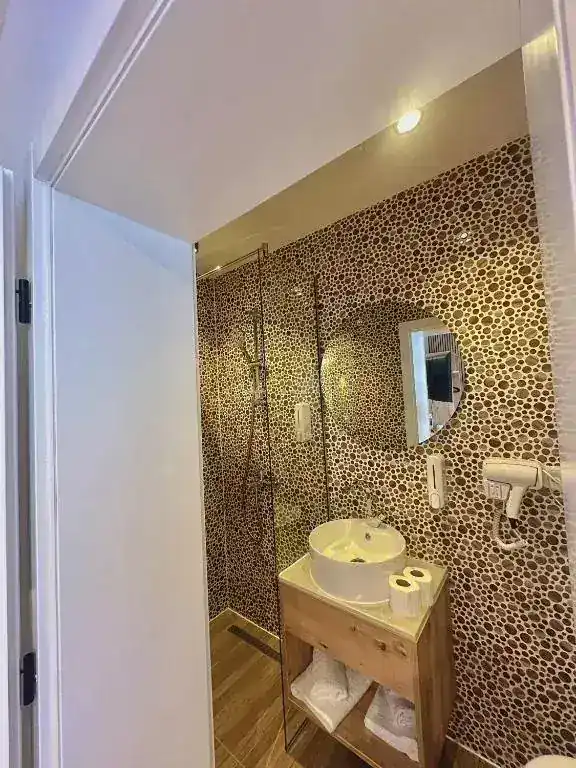
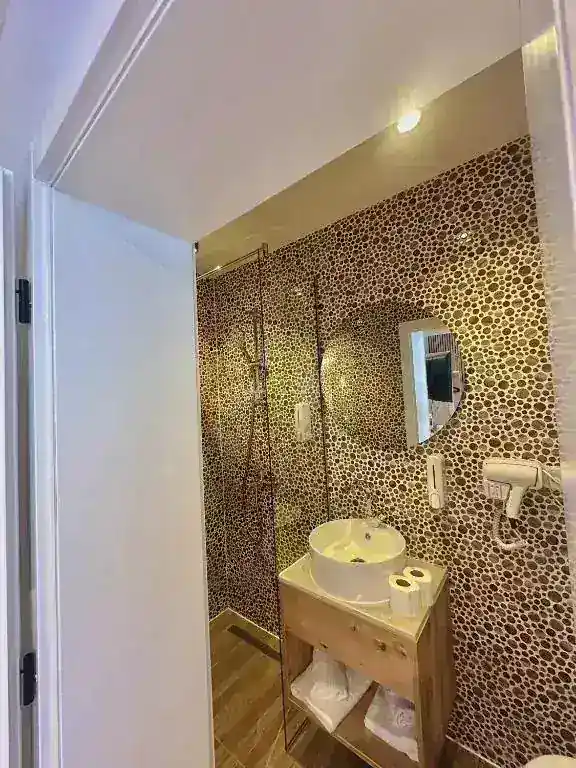
Commit:Site Lighthouse Image Compression.

diff --git a/_recompress-lh-images.js b/_recompress-lh-images.js
@@ -4,24 +4,28 @@
 'use strict';
 const sharp = require('sharp');
 const fs = require('fs');
+const path = require('path');
 
 const targets = [
-    { file: 'Rooms/queen standard room/706475810-mobile.webp', quality: 45 },
-    { file: 'Rooms/ea3336c4-76ab-4989-8cfa-51d2aaf569a6 (1)-medium.webp',  quality: 58 },
+    { file: 'Rooms/queen standard room/706475810-mobile.webp', quality: 35 },
+    { file: 'Rooms/ea3336c4-76ab-4989-8cfa-51d2aaf569a6 (1)-medium.webp',  quality: 50 },
 ];
 
 (async () => {
     for (const { file, quality } of targets) {
-        const before = fs.statSync(file).size;
-        const buf = await sharp(file).webp({ quality, lossless: false, effort: 6 }).toBuffer();
+        const abs = path.join(__dirname, file);
+        const before = fs.statSync(abs).size;
+        // Read into buffer first — avoids Windows file-handle lock from a prior sharp run
+        const inputBuf = fs.readFileSync(abs);
+        const buf = await sharp(inputBuf).webp({ quality, lossless: false, effort: 6 }).toBuffer();
         const saved = before - buf.length;
         if (saved > 0) {
-            fs.writeFileSync(file, buf);
+            fs.writeFileSync(abs, buf);
             console.log(`${file}\n  ${kb(before)} → ${kb(buf.length)}  (saved ${kb(saved)})\n`);
         } else {
             console.log(`${file}: already optimal — skipped\n`);
         }
     }
-})();
+})().catch(err => { console.error('Error:', err.message); process.exit(1); });
 
 function kb(b) { return (b / 1024).toFixed(1) + ' KB'; }

diff --git a/compress-images.js b/compress-images.js
@@ -8,9 +8,9 @@ const fs = require('fs');
 const path = require('path');
 
 const ROOMS_DIR = path.join(__dirname, 'Rooms');
-const QUALITY_SMALL = 50;
-const QUALITY_MOBILE = 45;
-const QUALITY_DEFAULT = 58;
+const QUALITY_SMALL = 48;
+const QUALITY_MOBILE = 35;
+const QUALITY_DEFAULT = 50;
 const mobileOnly = process.argv.includes('--mobile-only');
 
 function walkDir(dir) {
@@ -30,7 +30,8 @@ async function compressWebp(filePath) {
     } else if (filePath.endsWith('-mobile.webp')) {
         quality = QUALITY_MOBILE;
     }
-    const inputBuf = fs.readFileSync(filePath);
+    // Read into buffer first — avoids Windows file-handle lock on re-runs
+    const inputBuf = Buffer.from(fs.readFileSync(filePath));
     const buf = await sharp(inputBuf)
         .webp({ quality, lossless: false, effort: 6 })
         .toBuffer();
